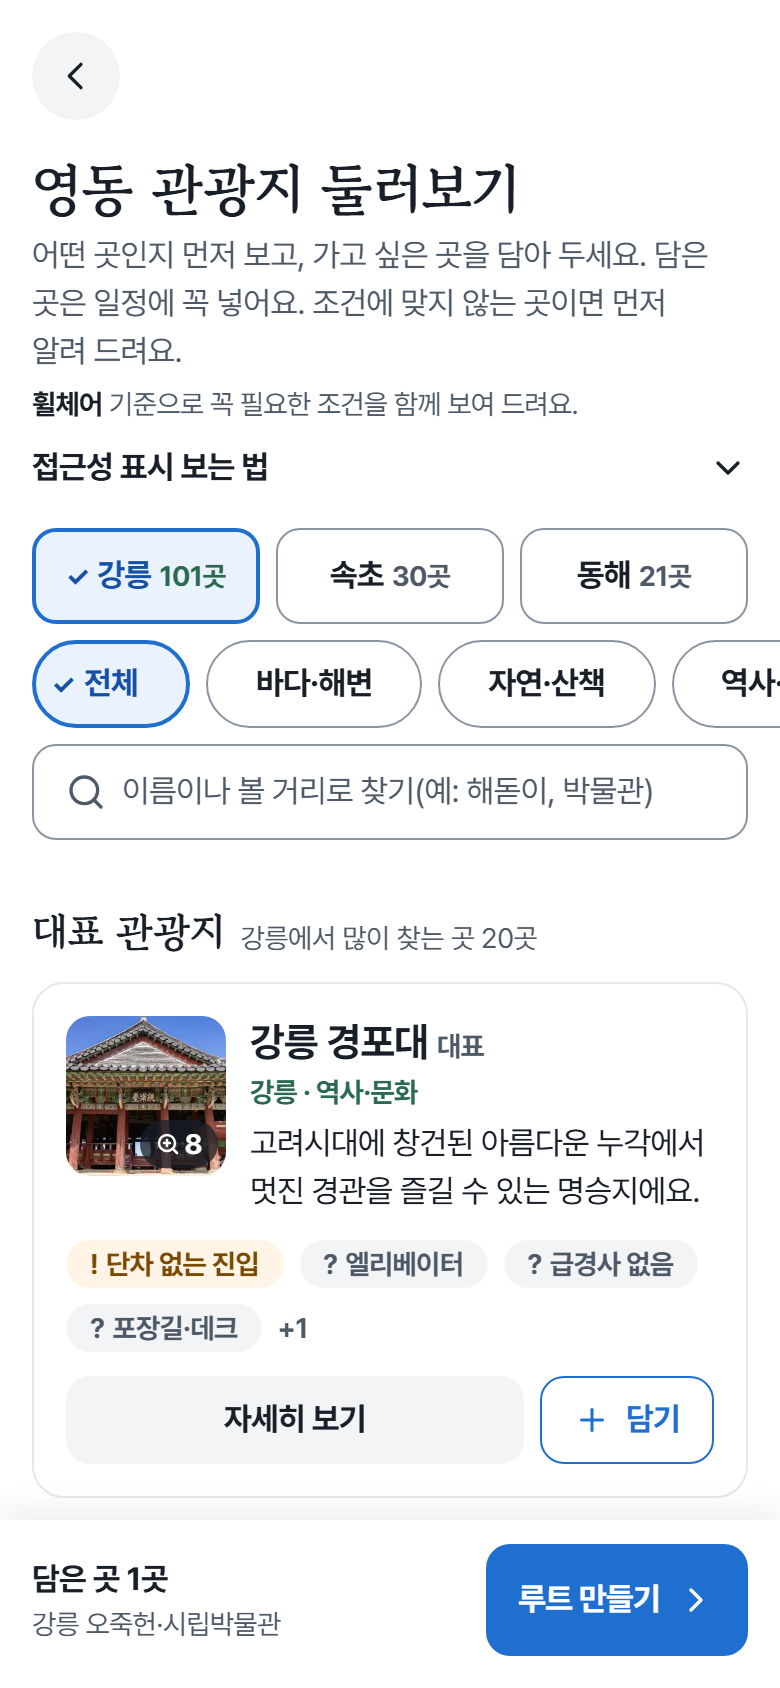
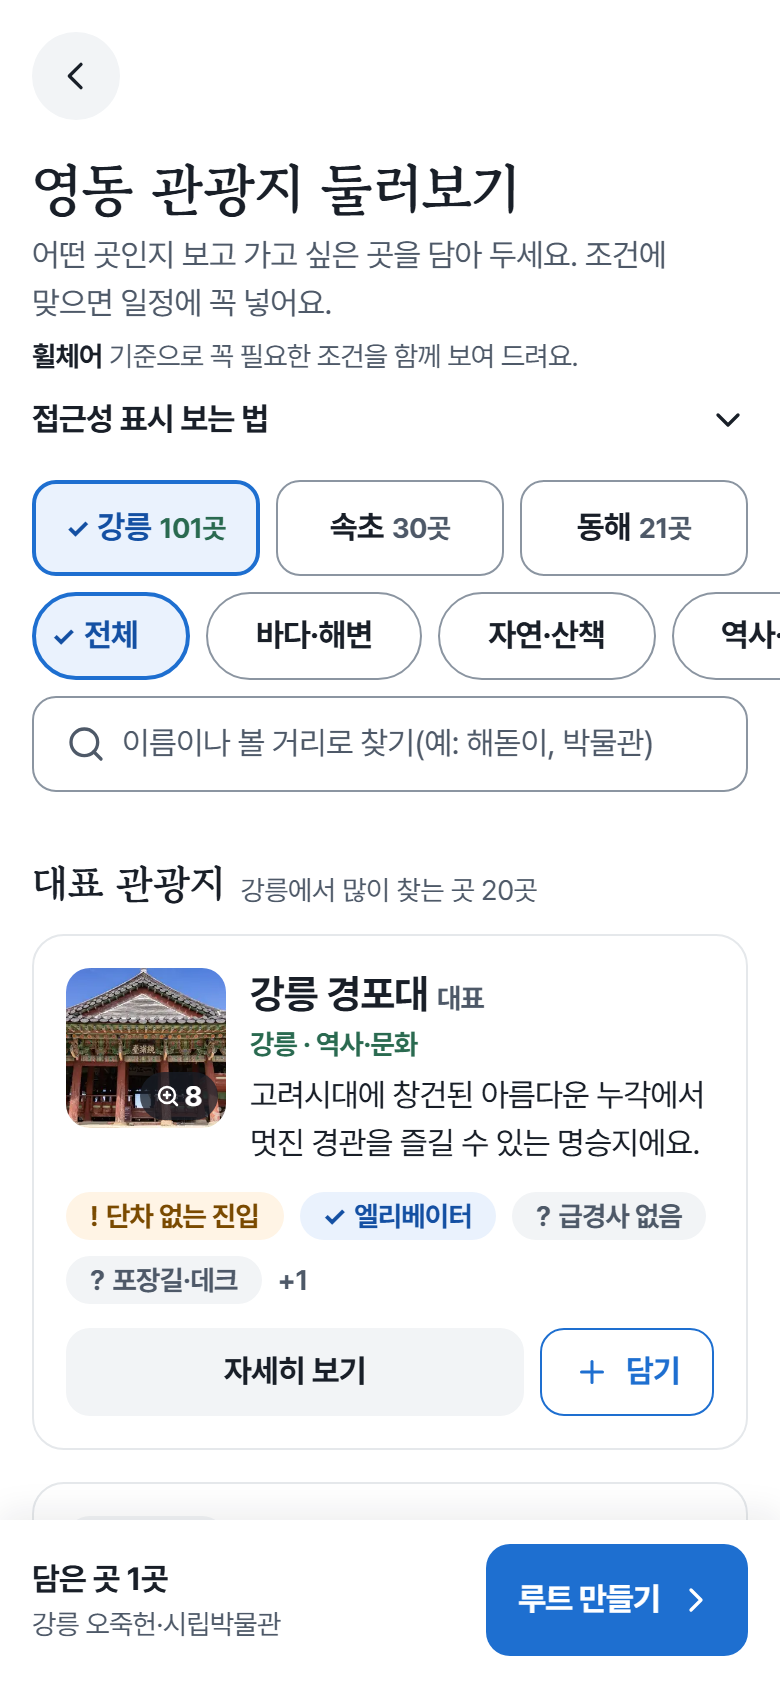
fix: 둘러보기 소개를 '조건에 맞으면 일정에 꼭 넣어요'로 짧게(휴대폰 머리 영역 300px 안), 캡처 다시

diff --git a/src/app/places/PlacesBrowser.tsx b/src/app/places/PlacesBrowser.tsx
@@ -85,7 +85,7 @@ export function PlacesBrowser({ places }: { places: BrowsePlace[] }) {
       {/* 머리 예산 300px: 제목 · 설명 · (유형 기준 한 줄) · 범례 펼치기 · 지역 분할 · 분야 칩 · 검색칸. 장소 목록이 첫 화면에 바로 보이게 한다 */}
       <header className="animate-rise px-4 pt-4 md:px-6">
         <h1 className="font-heading text-title font-bold text-balance">영동 관광지 둘러보기</h1>
-        <p className="mt-1 text-base text-ink-sub text-pretty">어떤 곳인지 먼저 보고, 가고 싶은 곳을 담아 두세요. 담은 곳은 일정에 꼭 넣어요. 조건에 맞지 않는 곳이면 먼저 알려 드려요.</p>
+        <p className="mt-1 text-base text-ink-sub text-pretty">어떤 곳인지 보고 가고 싶은 곳을 담아 두세요. 조건에 맞으면 일정에 꼭 넣어요.</p>
         {travelers && (
           <p className="mt-1 text-sm text-ink-sub">
             <strong className="font-bold text-ink">{travelers}</strong> 기준으로 꼭 필요한 조건을 함께 보여 드려요.
